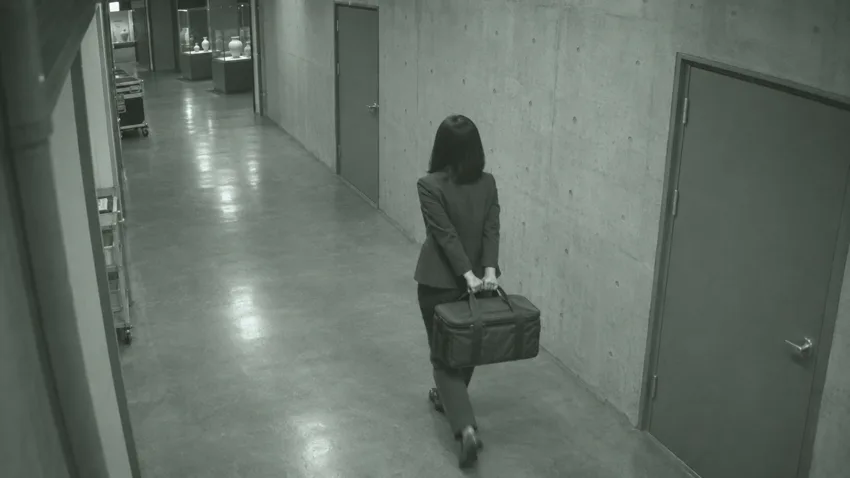
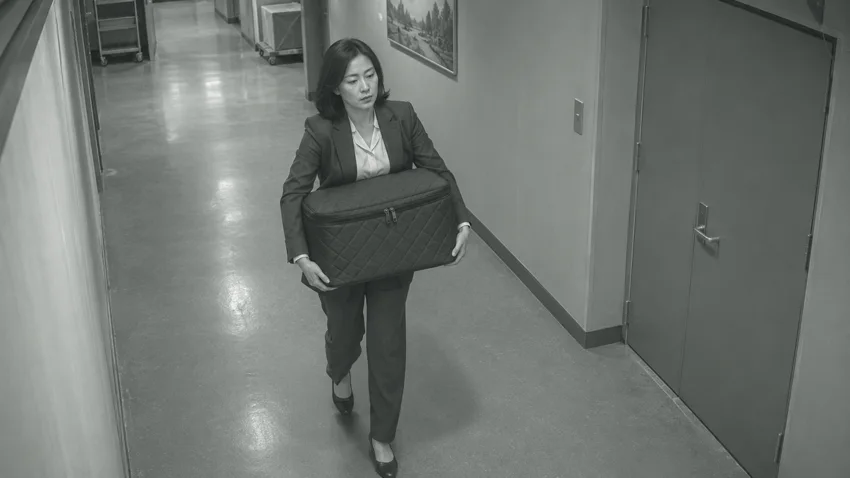
Update Site source

diff --git a/case.js b/case.js
@@ -9,7 +9,7 @@ export const clues = [
   ['02','정전 보고서','설비 기록','23:17:00 조명 회로 과부하. 23:18:30 복구. 출입·진열장 센서는 별도 배터리 전원으로 정상 작동했다.','23:17',-1],
   ['03','진열장 개폐 기록','보안 시스템','22:49에 큐레이터 카드로 진열장을 열어 22:50에 닫았다. 22:00부터 복제품 발견 때까지 기록된 개방은 이것이 유일하다.','22:49',-1],
   ['04','감정 사진 대조','작품 감정','22:45 점검 사진의 달항아리 굽에는 원본의 반달 모양 유약 자국이 있다. 22:51 점검 사진에는 자국이 없다.','22:51',0],
-  ['05','퇴실 CCTV','복도 카메라','22:52, 유진이 들어올 때 비어 있던 완충재 가방을 양손으로 들어 전시실을 나갔다.','22:52',1],
+  ['05','퇴실 CCTV','복도 카메라','22:52, 유진이 들어올 때 비어 있던 완충재 가방을 몸 앞에서 양손으로 받쳐 들고 전시실을 나갔다.','22:52',1],
   ['06','복제품 점검표','복원실','22:30 민서가 전시 조명 테스트용 복제품의 상태를 확인했다. 직후 유진이 복제품을 인수했다.','22:30',2],
   ['07','전기 작업 일지','시설팀','23:17 과부하는 야간 청소 장비를 조명 회로에 연결하면서 발생했다. 23:19 도윤이 진열장 상태를 육안으로 확인했다.','23:19',3]
 ];
@@ -23,7 +23,7 @@ export const reconstruction = [
   ['22:45','진열장에는 아직 원본이 있었다','첫 점검 사진에는 원본의 반달 모양 유약 자국이 남아 있다.'],
   ['22:49','진열장이 단 한 번 열렸다','두 점검 사진이 찍힌 사이 진열장을 연 사람은 서유진뿐이었다. 유진은 이때 원본과 복제품을 바꿨다.'],
   ['22:51','두 번째 사진에서 자국이 사라졌다','진열장에 들어 있던 달항아리가 이미 복제품으로 바뀌었음을 보여준다.'],
-  ['22:52','원본은 완충재 가방에 담겨 나갔다','유진은 들어올 때 비어 있던 가방을 양손으로 들고 전시실을 나섰다.'],
+  ['22:52','원본은 완충재 가방에 담겨 나갔다','유진은 들어올 때 비어 있던 가방을 몸 앞에서 양손으로 받쳐 들고 전시실을 나섰다.'],
   ['23:17','조명이 꺼졌다','청소 장비로 조명 회로에 과부하가 걸렸다. 별도 전원의 진열장 센서는 계속 작동했고, 정전 중 개방 기록은 없었다.']
 ];
 
@@ -42,7 +42,7 @@ export function evidenceVisual(id) {
     case '04':
       return '<figure class="exhibit comparison"><div class="photo-pair"><div><img src="/jar-before.webp" alt="굽에 반달 모양 유약 자국이 있는 달항아리"><time>22:45</time></div><div><img src="/jar-after.webp" alt="굽에 유약 자국이 없는 달항아리"><time>22:51</time></div></div><figcaption>달항아리 굽 확대 · 점검 사진</figcaption></figure>';
     case '05':
-      return '<figure class="exhibit cctv"><img src="/corridor.webp" alt="복도에서 완충재 가방을 든 인물"><span class="live"><i></i> CAM 02</span><time>22:52</time></figure>';
+      return '<figure class="exhibit cctv"><img src="/corridor.webp" alt="복도에서 완충재 가방을 몸 앞에 붙여 양손으로 받쳐 든 서유진"><span class="live"><i></i> CAM 02</span><time>22:52</time></figure>';
     case '06':
       return '<div class="exhibit paper"><div class="paper-title">복제품 인수 기록 <span>22:30</span></div><dl><dt>점검</dt><dd>오민서</dd><dt>인수</dt><dd>서유진</dd><dt>용도</dt><dd>전시 조명 테스트</dd></dl></div>';
     case '07':

diff --git a/style.css b/style.css
@@ -28,7 +28,7 @@ dialog{width:min(440px,calc(100% - 32px));padding:24px;background:var(--panel);b
 .outage-track{margin:8px 0 5px;height:8px;border:1px solid #856540;border-radius:3px;background:repeating-linear-gradient(130deg,#9a7245 0 5px,#654a32 5px 9px)}
 .record-range{display:flex;justify-content:space-between;color:#e2c4a2;font-size:12px}.outage p{font-size:11px;margin-top:9px;color:#a9e3d0}
 .comparison{background:#0a131a}.photo-pair{display:grid;grid-template-columns:1fr 1fr;gap:2px}.photo-pair>div{position:relative;min-width:0}.photo-pair img{display:block;width:100%;height:clamp(112px,16vw,178px);object-fit:cover}.photo-pair time,.cctv time,.live{position:absolute;font:600 11px Consolas,monospace;color:#e6f3ee;background:#07100ee0;border:1px solid #8ac8b461;border-radius:4px;padding:4px 7px}.photo-pair time{left:7px;bottom:7px}.comparison figcaption{padding:7px 10px;color:#bdcbd2;font-size:11px}
-.cctv{position:relative;background:#0a1c19}.cctv img{display:block;width:100%;height:clamp(139px,19vw,205px);object-fit:cover}.cctv::after{content:"";position:absolute;inset:0;pointer-events:none;background:repeating-linear-gradient(0deg,#06180a15 0 1px,transparent 1px 4px)}.cctv time{bottom:9px;right:9px;z-index:1}.live{top:9px;left:9px;z-index:1}.live i{display:inline-block;width:6px;height:6px;border-radius:50%;background:#da978f;vertical-align:1px}
+.cctv{position:relative;background:#0a1c19}.cctv img{display:block;width:100%;height:clamp(139px,19vw,205px);object-fit:cover;object-position:center 15%}.cctv::after{content:"";position:absolute;inset:0;pointer-events:none;background:repeating-linear-gradient(0deg,#06180a15 0 1px,transparent 1px 4px)}.cctv time{bottom:9px;right:9px;z-index:1}.live{top:9px;left:9px;z-index:1}.live i{display:inline-block;width:6px;height:6px;border-radius:50%;background:#da978f;vertical-align:1px}
 .paper{background:repeating-linear-gradient(0deg,#d9ccad 0 1px,transparent 1px 24px),#e7dcbe;padding:10px 12px;color:#342c21;border-color:#b6a17d}
 .paper-title{font-size:13px;font-weight:800;border-bottom:1px solid #9c8969;padding-bottom:6px;display:flex;justify-content:space-between;gap:8px}.paper-title span{font-family:Consolas,monospace;color:#503c2c}.paper dl{display:grid;grid-template-columns:auto 1fr;gap:7px 16px;font-size:12px;margin:9px 0}.paper dt{color:#594733;font-weight:700}.paper dd{margin:0}
 .maintenance{padding:11px 13px;background:#13201e}.maintenance ol{list-style:none;margin:0;padding:0}.maintenance li{padding:7px 0;display:grid;grid-template-columns:63px 1fr;gap:5px;color:#ceddd5;font-size:12px}.maintenance li+li{border-top:1px solid #304239}.maintenance time{color:#a8e2c5}
